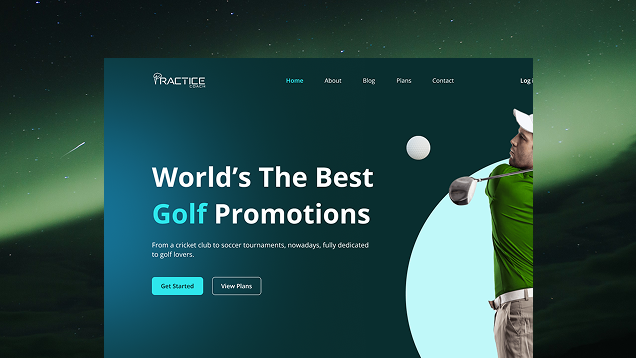
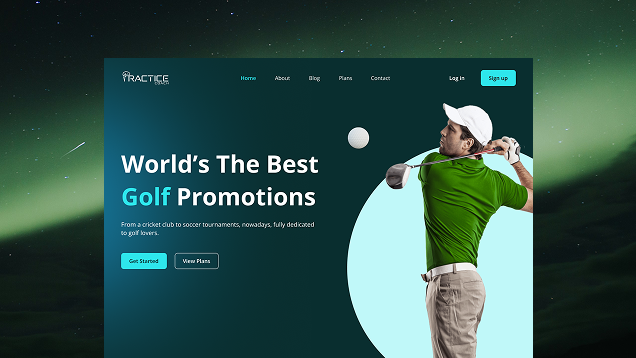
project new image, made changes for home apge for align all in smae heading spaces top and botom, and also made changes in about page for align all in same heading spaces top and bottom, and also made changes in process section for align all in same heading spaces top and bottom, and also made chang

diff --git a/src/screens/HomePageScreen/sections/TestimonialsSection/TestimonialsSection.tsx b/src/screens/HomePageScreen/sections/TestimonialsSection/TestimonialsSection.tsx
@@ -197,8 +197,8 @@ export const TestimonialsSection = ({ theme }: TestimonialsSectionProps): JSX.El
     <section
       className={`
         relative w-full overflow-x-hidden transition-colors duration-700
-        pt-[40px] sm:pt-[50px] lg:pt-[150px]
-        pb-[40px] sm:pb-[50px] lg:pb-[50px]
+      pt-[50px] sm:pt-[50px] lg:pt-[150px]
+      pb-[50px] sm:pb-[50px] lg:pb-[50px]
         px-4 sm:px-8 lg:px-8 xl:px-20
         ${isDark ? "dark-section" : ""}
       `}
@@ -231,38 +231,47 @@ export const TestimonialsSection = ({ theme }: TestimonialsSectionProps): JSX.El
 
           {/* ===== TESTIMONIALS ===== */}
           <div className="flex flex-col">
-            <h2 className="[font-family:'Poppins',Helvetica] font-semibold text-inherit text-[40px] sm:text-[56px] md:text-[100px] lg:text-[100px] mb-[36px] md:mb-[56px]">
+            <div className="flex flex-col gap-8 lg:gap-12 mb-[48px] lg:mb-[86px]">
+              <h2
+                className="
+                  [font-family:'Poppins',Helvetica] font-semibold text-inherit
+                  text-[40px] sm:text-[56px] md:text-[100px] lg:text-[100px]
+                  tracking-[0] leading-normal
+                "
+              >
+                <AnimatedText
+                  as="span"
+                  className="block"
+                  isDarkBg={isDark}
+                  disableColorReveal
+                  slideDuration={0.8}
+                  slideStagger={0.08}
+                >
+                  Testimonials
+                </AnimatedText>
+              </h2>
+
               <AnimatedText
-                as="span"
-                className="block"
+                className="
+                  max-w-full lg:max-w-[930px]
+                  ml-0 lg:ml-auto
+                  [font-family:'Poppins',Helvetica] font-normal opacity-80
+                  text-[18px] sm:text-[24px] lg:text-[32px]
+                  tracking-[0] leading-normal
+                "
                 isDarkBg={isDark}
                 disableColorReveal
                 slideDuration={0.8}
                 slideStagger={0.08}
               >
-                Testimonials
+                We work with forward-thinking clients who value creativity and results. Together, we build experiences that inspire and deliver growth.
               </AnimatedText>
-            </h2>
-             <div className="max-w-full lg:max-w-[930px] ml-0 lg:ml-auto">
-            <AnimatedText
-              className="
-                [font-family:'Poppins',Helvetica] font-normal text-inherit
-                text-[18px] sm:text-[24px] lg:text-[32px]
-                tracking-[0] leading-normal
-              "
-              isDarkBg={isDark}
-              disableColorReveal
-              slideDuration={0.8}
-              slideStagger={0.08}
-            >
-            We work with forward-thinking clients who value creativity and results. Together, we build experiences that inspire and deliver growth.
-            </AnimatedText>
+            </div>
 
-            
-          </div>
+          
 
             <div
-              className="relative mt-6 md:mt-12"
+              className="relative"
               onMouseEnter={(event) => {
                 document.body.dataset.cursorHidden = "true";
                 if (carouselCursorRef.current) {
@@ -392,36 +401,43 @@ export const TestimonialsSection = ({ theme }: TestimonialsSectionProps): JSX.El
 
 
           {/* ===== FAQ ===== */}
-          <div className="flex flex-col gap-4 md:gap-12 mt-4 md:mt-10 mb-10 md:mb-20">
-            <h2 className="[font-family:'Poppins',Helvetica] font-semibold text-inherit text-[40px] sm:text-[56px] md:text-[100px] lg:text-[100px] mb-[36px] md:mb-[56px]">
+          <div className="flex flex-col mt-4 md:mt-10 mb-10 md:mb-20">
+            <div className="flex flex-col gap-8 lg:gap-12 mb-[48px] lg:mb-[86px]">
+              <h2
+                className="
+                  [font-family:'Poppins',Helvetica] font-semibold text-inherit
+                  text-[40px] sm:text-[56px] md:text-[100px] lg:text-[100px]
+                  tracking-[0] leading-normal
+                "
+              >
+                <AnimatedText
+                  as="span"
+                  className="block"
+                  isDarkBg={isDark}
+                  disableColorReveal
+                  slideDuration={0.8}
+                  slideStagger={0.08}
+                >
+                  FAQ
+                </AnimatedText>
+              </h2>
+
               <AnimatedText
-                as="span"
-                className="block"
+                className="
+                  max-w-full lg:max-w-[930px]
+                  ml-0 lg:ml-auto
+                  [font-family:'Poppins',Helvetica] font-normal opacity-80
+                  text-[18px] sm:text-[24px] lg:text-[32px]
+                  tracking-[0] leading-normal
+                "
                 isDarkBg={isDark}
                 disableColorReveal
                 slideDuration={0.8}
                 slideStagger={0.08}
               >
-                FAQ
+                We're thrilled that you're interested in learning from us. Before you apply, here are a few things to keep in mind. Let’s help you get started on the right path.
               </AnimatedText>
-            </h2>
-               <div className="max-w-full lg:max-w-[930px] ml-0 lg:ml-auto">
-            <AnimatedText
-              className="
-                [font-family:'Poppins',Helvetica] font-normal text-inherit
-                text-[18px] sm:text-[24px] lg:text-[32px]
-                tracking-[0] leading-normal
-              "
-              isDarkBg={isDark}
-              disableColorReveal
-              slideDuration={0.8}
-              slideStagger={0.08}
-            >
-           We're thrilled that you're interested in learning from us. Before you apply, here are a few things to keep in mind. Let’s help you get started on the right path.
-            </AnimatedText>
-
-          
-          </div>
+            </div>
 
             <Accordion type="single" collapsible>
               {faqItems.map((item, index) => (

diff --git a/src/screens/HomePageScreen/sections/AboutSection/AboutSection.tsx b/src/screens/HomePageScreen/sections/AboutSection/AboutSection.tsx
@@ -151,7 +151,7 @@ export const AboutSection = ({ theme }: AboutSectionProps): JSX.Element => {
       }}
       className={`
         relative w-full
-        pt-[40px] sm:pt-[50px] lg:pt-[150px]
+        pt-[50px] sm:pt-[50px] lg:pt-[150px]
         pb-[40px] sm:pb-[50px] lg:pb-[50px]
         px-4 sm:px-8 lg:px-8 xl:px-20
         transition-colors duration-700
@@ -160,16 +160,12 @@ export const AboutSection = ({ theme }: AboutSectionProps): JSX.Element => {
     >
       <div className="max-w-[1280px] mx-auto">
         {/* ================= ABOUT INTRO ================= */}
-        <div className="mb-[56px]">
+        <div className="flex flex-col gap-8 lg:gap-12 mb-[48px] lg:mb-[86px]">
           <h2
             className="
-              [font-family:'Poppins',Helvetica] font-semibold
-              text-[40px] leading-[48px]
-              sm:text-[56px] sm:leading-[60px]
-              md:text-[100px] md:leading-[70px]
-              lg:text-[100px] lg:leading-[85px]
-              mb-[36px] md:mb-[56px]
-              
+              [font-family:'Poppins',Helvetica] font-semibold text-inherit
+              text-[40px] sm:text-[56px] md:text-[100px] lg:text-[100px]
+              tracking-[0] leading-tight
             "
           >
             <AnimatedText
@@ -184,40 +180,30 @@ export const AboutSection = ({ theme }: AboutSectionProps): JSX.Element => {
             </AnimatedText>
           </h2>
 
-          <div
-            className="
-              ml-0
-              sm:ml-[80px]
-              md:ml-[120px]
-              lg:ml-[200px]
-              xl:ml-[350px]
-            "
-          >
+          <div className="max-w-full lg:max-w-[800px] ml-0 lg:ml-auto">
             <AnimatedText
               className="
-                [font-family:'Poppins',Helvetica] font-normal
-                text-[20px] sm:text-[24px] lg:text-[32px]
-               leading-normal
-                mb-[32px] lg:mb-[56px]
+                [font-family:'Poppins',Helvetica] font-normal text-inherit opacity-80
+                text-[18px] sm:text-[24px] lg:text-[32px]
+                tracking-[0] leading-normal
               "
               isDarkBg={isDark}
               disableColorReveal
               slideDuration={0.8}
               slideStagger={0.08}
             >
-              As global leaders in UX/UI design, technology and marketing solutions, we are dedicated to simplifying, strengthening, and transforming businesses of all sizes. our mission is to bridge the gap between creativity and technology, crafting seamless experiences that inspire users and drive measurable outcomes for our clients.
+              As global leaders in UX/UI design, technology and marketing solutions, we are dedicated to simplifying, strengthening, and transforming businesses of all sizes. Our mission is to bridge the gap between creativity and technology, crafting seamless experiences that inspire users and drive measurable outcomes for our clients.
             </AnimatedText>
 
             <Link to="/about">
               <Button
                 variant="link"
-                className="relative h-auto w-fit p-0 text-inherit group no-underline hover:no-underline"
+                className="relative h-auto w-fit p-0 mt-[24px] lg:mt-[40px] text-inherit group no-underline hover:no-underline"
               >
                 <span
                   className="
                     [font-family:'Poppins',Helvetica] font-normal
                     text-[20px] sm:text-[24px] lg:text-[32px]
-                    leading-[40px] lg:leading-[51px]
                   "
                 >
                   Discover More

diff --git a/src/screens/HomePageScreen/sections/ProcessSection/ProcessSection.tsx b/src/screens/HomePageScreen/sections/ProcessSection/ProcessSection.tsx
@@ -93,42 +93,42 @@ export const ProcessSection = ({ theme }: ProcessSectionProps): JSX.Element => {
     >
       <div className="max-w-[1280px] mx-auto">
         {/* ================= HEADER ================= */}
-        <h2
-          className="
-            [font-family:'Poppins',Helvetica] font-semibold text-inherit
-            text-[40px] sm:text-[56px] md:text-[100px] lg:text-[100px]
-            tracking-[0] leading-normal
-            mb-[32px] lg:mb-[48px]
-          "
-        >
+        <div className="flex flex-col gap-8 lg:gap-12 mb-[48px] lg:mb-[86px]">
+          <h2
+            className="
+              [font-family:'Poppins',Helvetica] font-semibold text-inherit
+              text-[40px] sm:text-[56px] md:text-[100px] lg:text-[100px]
+              tracking-[0] leading-normal
+            "
+          >
+            <AnimatedText
+              as="span"
+              className="block"
+              isDarkBg={isDark}
+              disableColorReveal
+              slideDuration={0.8}
+              slideStagger={0.08}
+            >
+              Process
+            </AnimatedText>
+          </h2>
+
           <AnimatedText
-            as="span"
-            className="block"
+            className="
+              max-w-full lg:max-w-[930px]
+              ml-0 lg:ml-auto
+              [font-family:'Poppins',Helvetica] font-normal opacity-80
+              text-[18px] sm:text-[24px] lg:text-[32px]
+              tracking-[0] leading-normal
+            "
             isDarkBg={isDark}
             disableColorReveal
             slideDuration={0.8}
             slideStagger={0.08}
           >
-            Process
+            A flexible, adaptive process designed to help businesses launch faster and scale with confidence.
           </AnimatedText>
-        </h2>
-
-        <AnimatedText
-          className="
-            max-w-full lg:max-w-[930px]
-            ml-0 lg:ml-auto
-            [font-family:'Poppins',Helvetica] font-normal opacity-80
-            text-[18px] sm:text-[24px] lg:text-[32px]
-            tracking-[0] leading-normal
-            mb-[48px] sm:mb-[64px] lg:mb-[86px]
-          "
-          isDarkBg={isDark}
-          disableColorReveal
-          slideDuration={0.8}
-          slideStagger={0.08}
-        >
-          A flexible, adaptive process designed to help businesses launch faster and scale with confidence.
-        </AnimatedText>
+        </div>
         
 
         {/* ================= STEPS GRID ================= */}

diff --git a/src/screens/HomePageScreen/sections/ProjectsSection/ProjectsSection.tsx b/src/screens/HomePageScreen/sections/ProjectsSection/ProjectsSection.tsx
@@ -62,7 +62,7 @@ interface ProjectsSectionProps {
 export const ProjectsSection = ({ theme }: ProjectsSectionProps): JSX.Element => {
   const headerRef = useRef<HTMLDivElement | null>(null);
   const titleRef = useRef<HTMLHeadingElement | null>(null);
-  const descRef = useRef<HTMLParagraphElement | null>(null);
+  // const descRef = useRef<HTMLParagraphElement | null>(null);
   const cardsWrapperRef = useRef<HTMLDivElement | null>(null);
   const cardsRef = useRef<HTMLDivElement[]>([]);
 
@@ -89,17 +89,7 @@ export const ProjectsSection = ({ theme }: ProjectsSectionProps): JSX.Element =>
           opacity: 0,
           duration: 1,
           ease: "power3.out",
-        })
-        .from(
-          descRef.current,
-          {
-            x: 80,
-            opacity: 0,
-            duration: 1.2,
-            ease: "power3.out",
-          },
-          "-=0.6"
-        );
+        });
 
       // ❗ Stacked card animation → ALL SCREENS
       const cards = cardsRef.current.filter(Boolean);
@@ -178,7 +168,7 @@ export const ProjectsSection = ({ theme }: ProjectsSectionProps): JSX.Element =>
       }}
       className={`
         relative w-full overflow-hidden
-        pt-[40px] sm:pt-[50px] lg:pt-[150px]
+        pt-[50px] sm:pt-[50px] lg:pt-[150px]
         pb-[50px] sm:pb-[50px] lg:pb-[50px]
         px-0
         transition-colors duration-700
@@ -189,7 +179,7 @@ export const ProjectsSection = ({ theme }: ProjectsSectionProps): JSX.Element =>
         {/* ================= HEADER ================= */}
         <header
           ref={headerRef}
-          className="flex flex-col gap-[26px] mb-[36px] md:mb-[56px] z-20 relative"
+          className="flex flex-col gap-8 lg:gap-12 mb-[48px] lg:mb-[86px] z-20 relative"
         >
           <h2
             ref={titleRef}
@@ -214,7 +204,7 @@ export const ProjectsSection = ({ theme }: ProjectsSectionProps): JSX.Element =>
           <div className="max-w-full lg:max-w-[930px] ml-0 lg:ml-auto">
             <AnimatedText
               className="
-                [font-family:'Poppins',Helvetica] font-normal 
+                [font-family:'Poppins',Helvetica] font-normal opacity-80
                 text-[18px] sm:text-[24px] lg:text-[32px]
                 tracking-[0] leading-normal
               "

diff --git a/src/screens/About.tsx b/src/screens/About.tsx
@@ -220,7 +220,7 @@ export default function AboutSection() {
           <img
             src={about_img}
             alt="about"
-            className="w-full mt-8 mb-[50px] md:mt-12"
+            className="w-full my-[8vh] md:my-[10vh] lg:my-[12vh]"
           />
 
           <div className="ml-0 md:ml-[80px] lg:ml-[200px] xl:ml-[350px] space-y-[16px] md:space-y-[56px]">
